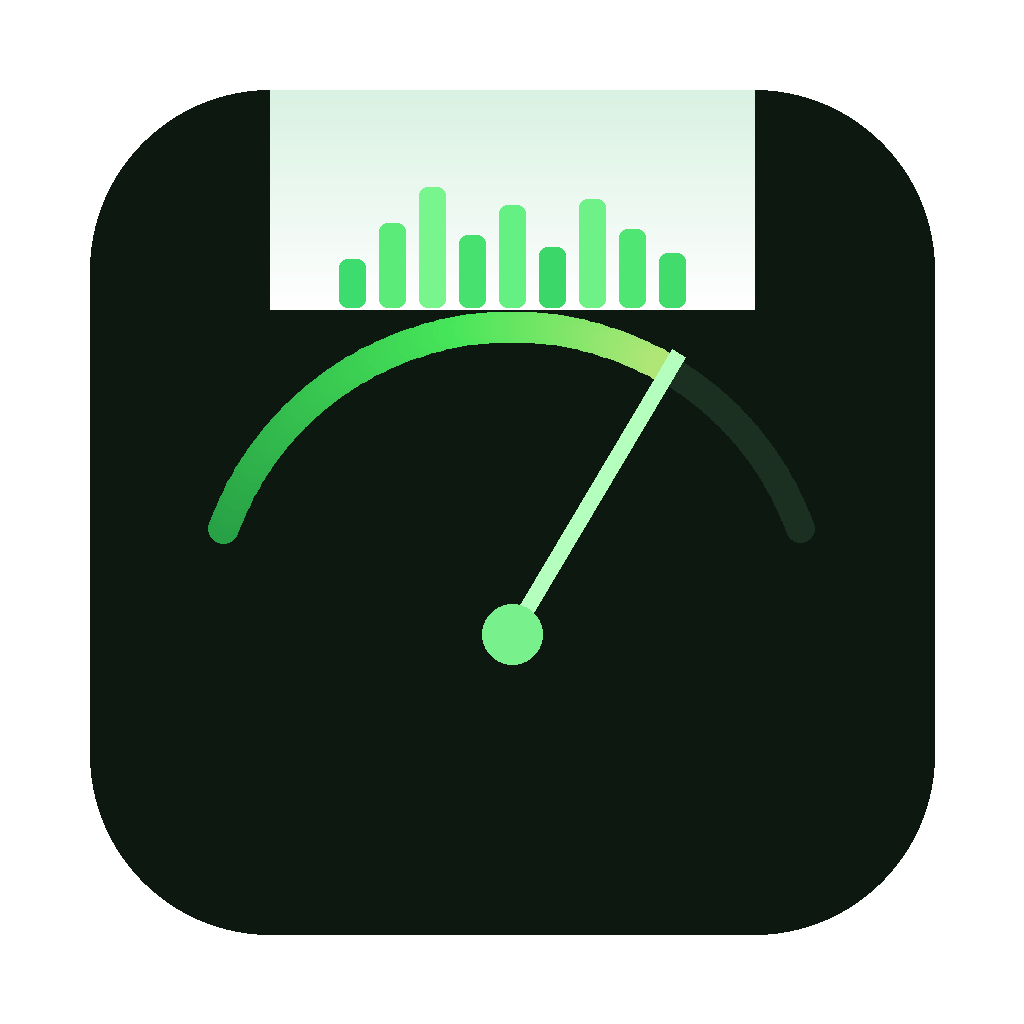
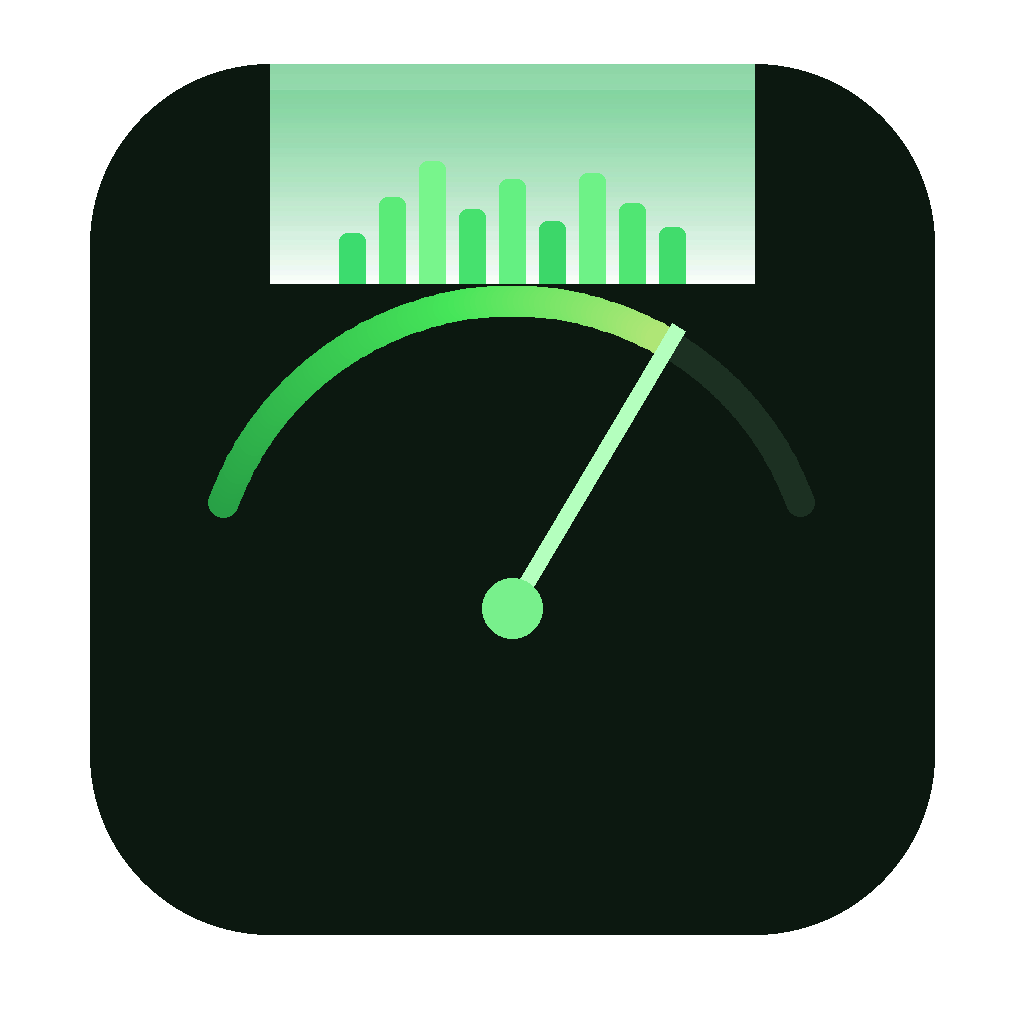
Yesil app ikonu + launcher.c (ikon icin binary launcher denemesi) + gitignore

Changed region(s): [[0.0938, 0.0625, 0.9062, 0.6562]]

diff --git a/launcher.c b/launcher.c
@@ -1,0 +1,38 @@
+/* launcher.c - VU Meter LCD baslatici (gercek binary, bundle ikonu icin) */
+#include <stdio.h>
+#include <stdlib.h>
+#include <unistd.h>
+#include <string.h>
+#include <libgen.h>
+#include <limits.h>
+#include <mach-o/dyld.h>
+
+int main(int argc, char *argv[]) {
+    /* kendi yolumuzu bul: .../Contents/MacOS/launcher */
+    char exe[PATH_MAX];
+    uint32_t sz = sizeof(exe);
+    if (_NSGetExecutablePath(exe, &sz) != 0) return 1;
+
+    /* .../Contents/MacOS -> .../Contents/Resources/app */
+    char *macos_dir = dirname(exe);          /* .../Contents/MacOS */
+    char contents[PATH_MAX];
+    snprintf(contents, sizeof(contents), "%s/..", macos_dir);
+    char appdir[PATH_MAX];
+    snprintf(appdir, sizeof(appdir), "%s/../Resources/app", macos_dir);
+
+    /* app klasorune gec */
+    if (chdir(appdir) != 0) {
+        fprintf(stderr, "app klasoru bulunamadi: %s\n", appdir);
+        return 1;
+    }
+
+    /* eski kopyalari kapat */
+    system("pkill -f native_proto_mac 2>/dev/null; sleep 1");
+
+    /* python3'u bul ve calistir */
+    execlp("/usr/bin/env", "env", "python3", "native_proto_mac.py", "Spektrum", (char*)NULL);
+
+    /* execlp basarisizsa */
+    fprintf(stderr, "python3 baslatilamadi\n");
+    return 1;
+}